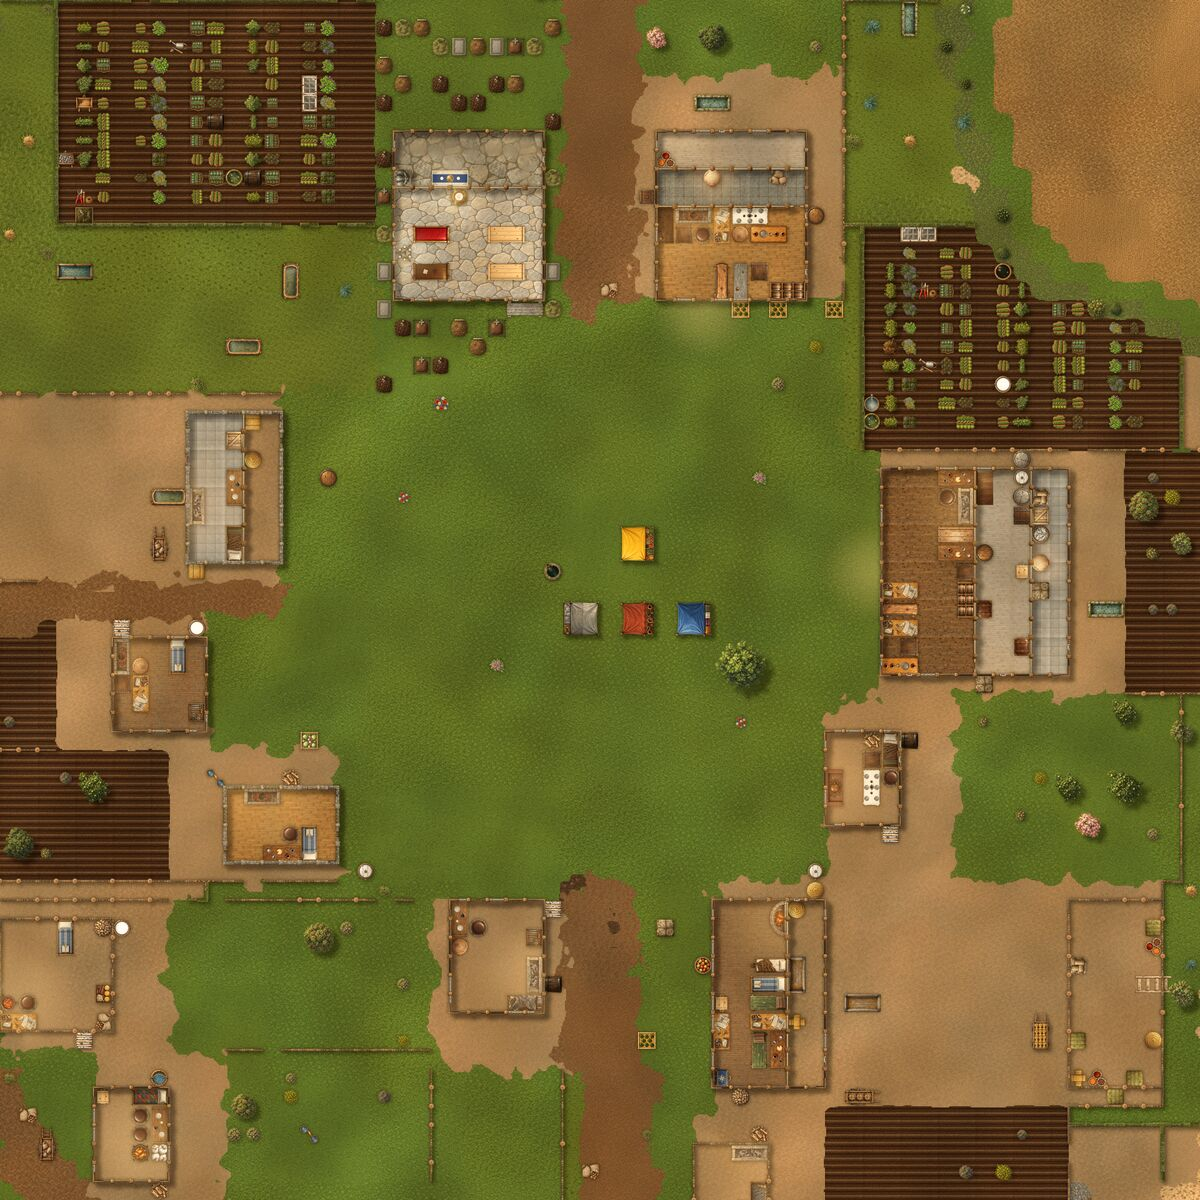
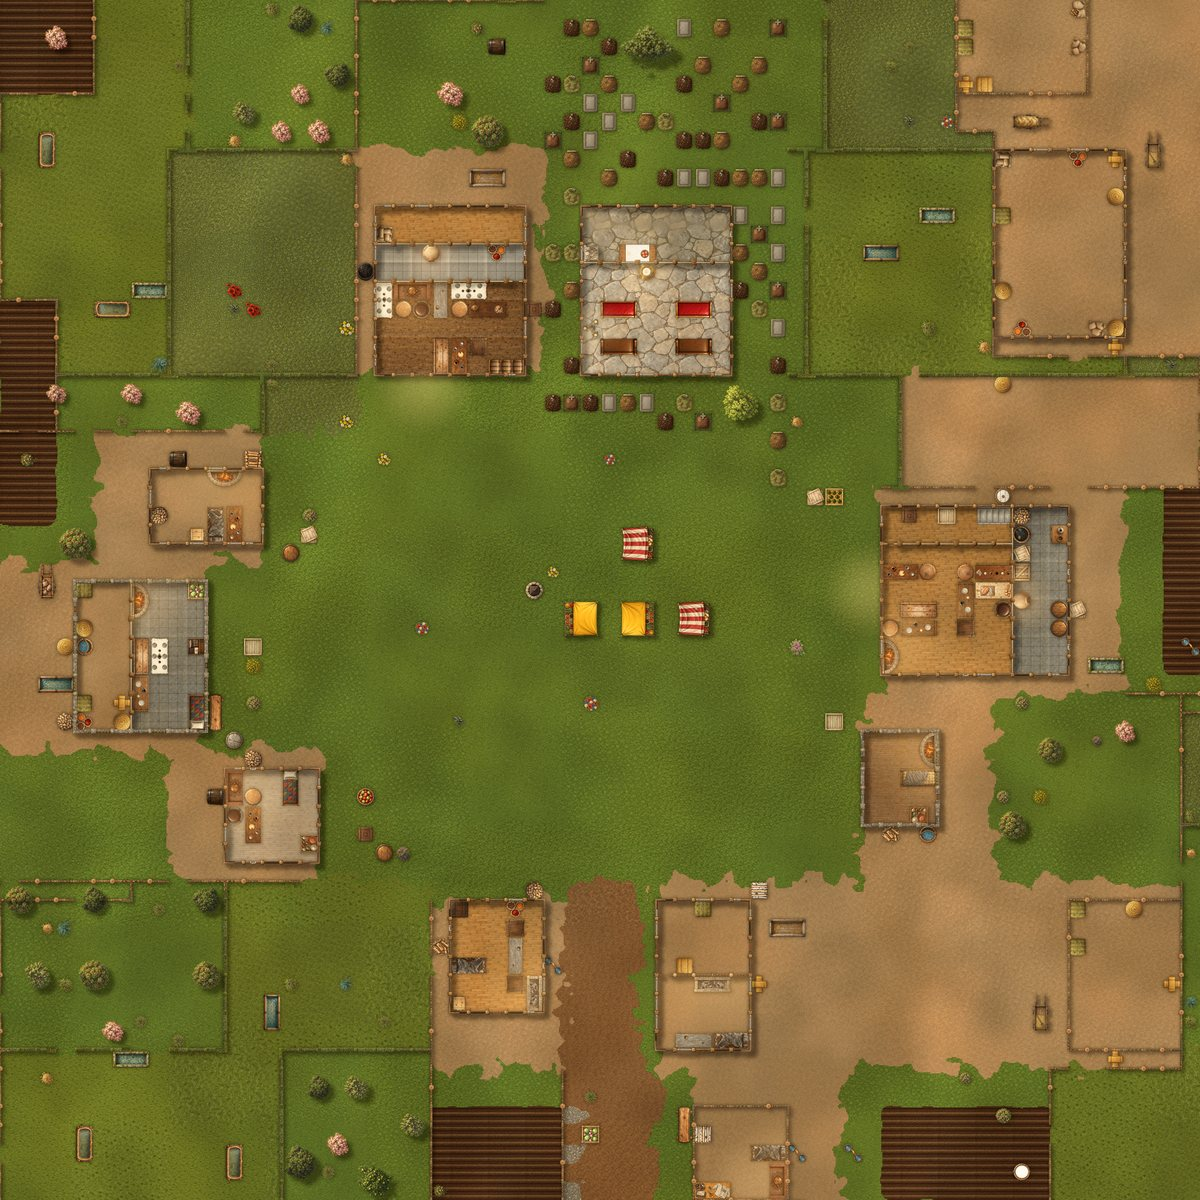
docs(site, readme): renders from Arda 1.0
Every showcase image on the home page and the README's tactical sheet
re-rendered from v1.0.0 with the AI art stack: the political map in the
shipped style, a fresh default-size continent, the village at its
centred site (537, 796), and the coastal town with its walls in view.

[skip ci]

diff --git a/site/index.html b/site/index.html
@@ -122,7 +122,7 @@
         <figure class="shot" data-cat="settlements"><button type="button"><img src="img/docks.jpg" loading="lazy" width="1200" height="1200" alt="Wooden docks with moored boats on deep water"></button><figcaption><strong>Port docks</strong><span>cell 544, 657 · moored boats</span></figcaption></figure>
         <figure class="shot" data-cat="wilds"><button type="button"><img src="img/beach.jpg" loading="lazy" width="1200" height="1200" alt="Sandy beach between grassland and dark sea"></button><figcaption><strong>Coast and beach</strong><span>cell 778, 751</span></figcaption></figure>
         <figure class="shot big" data-cat="settlements"><button type="button"><img src="img/town-fields.jpg" loading="lazy" width="1400" height="1400" alt="Edge of a town giving way to strip fields and a river"></button><figcaption><strong>Town edge and strip fields</strong><span>3 × 3 cells, seamless</span></figcaption></figure>
-        <figure class="shot" data-cat="settlements"><button type="button"><img src="img/village.jpg" loading="lazy" width="1200" height="1200" alt="Village houses with crofts, gardens and dirt yards"></button><figcaption><strong>Village crofts</strong><span>cell 537, 798 · kitchen gardens</span></figcaption></figure>
+        <figure class="shot" data-cat="settlements"><button type="button"><img src="img/village.jpg" loading="lazy" width="1200" height="1200" alt="Village houses with crofts, gardens and dirt yards"></button><figcaption><strong>Village crofts</strong><span>cell 537, 796 · kitchen gardens</span></figcaption></figure>
         <figure class="shot" data-cat="wilds"><button type="button"><img src="img/snow.jpg" loading="lazy" width="1200" height="1200" alt="Snowfield broken by rocky ribs and boulders"></button><figcaption><strong>Snowbound crag</strong><span>cold world · cliff ribs</span></figcaption></figure>
         <figure class="shot" data-cat="underground"><button type="button"><img src="img/dungeon.jpg" loading="lazy" width="1400" height="1050" alt="Dungeon of stone rooms and corridors"></button><figcaption><strong>Dungeon level</strong><span>seed 7 · loops and secret doors</span></figcaption></figure>
         <figure class="shot" data-cat="underground"><button type="button"><img src="img/cave.jpg" loading="lazy" width="1400" height="1050" alt="Winding cave with pools of water"></button><figcaption><strong>Natural cave</strong><span>seed 7 · pools and streams</span></figcaption></figure>

diff --git a/README.md b/README.md
@@ -30,9 +30,9 @@
 </p>
 
 <p align="center">
-  <img src="assets/branding/tactical-examples.jpg" alt="Twelve procedural tactical maps from one generated world: city, port town, village, hamlet, forest, woodland, mountain, snow peak, wetland, coast, dungeon and cave" width="900">
+  <img src="assets/branding/tactical-examples.jpg" alt="Twelve procedural tactical maps from Arda 1.0: city, port town, village, hamlet, forest, woodland, mountain, snow peak, wetland, coast, dungeon and cave" width="900">
   <br>
-  <sub>Procedural 64 × 64-square tactical maps from one generated world (MICRO seed 42), served by <code>arda-server</code> with an AI-generated art library: city, port town, village, hamlet; forest, woodland, mountain, snow peak; wetland, coast, dungeon, cave.</sub>
+  <sub>Procedural 64 × 64-square tactical maps from Arda 1.0 (MICRO seed 42; the snow peak from the same seed at <code>--latitude 58,72</code>), served by <code>arda-server</code> with an AI-generated art library: city, port town, village, hamlet; forest, woodland, mountain, snow peak; wetland, coast, dungeon, cave.</sub>
 </p>
 
 <p align="center">
